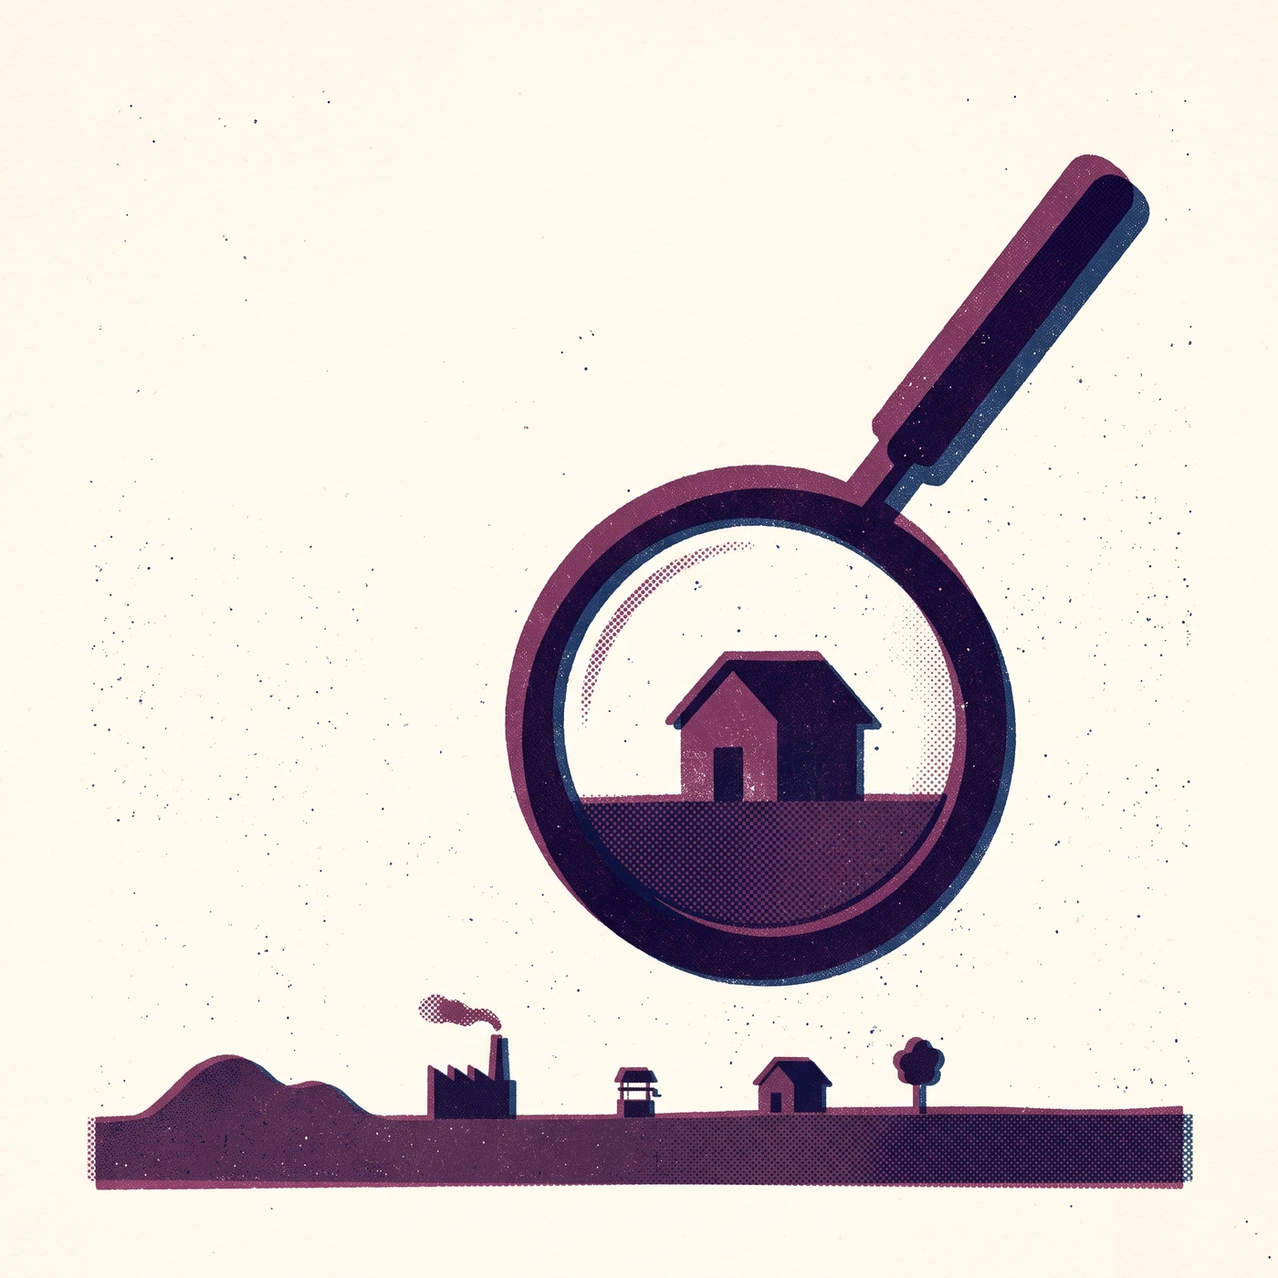
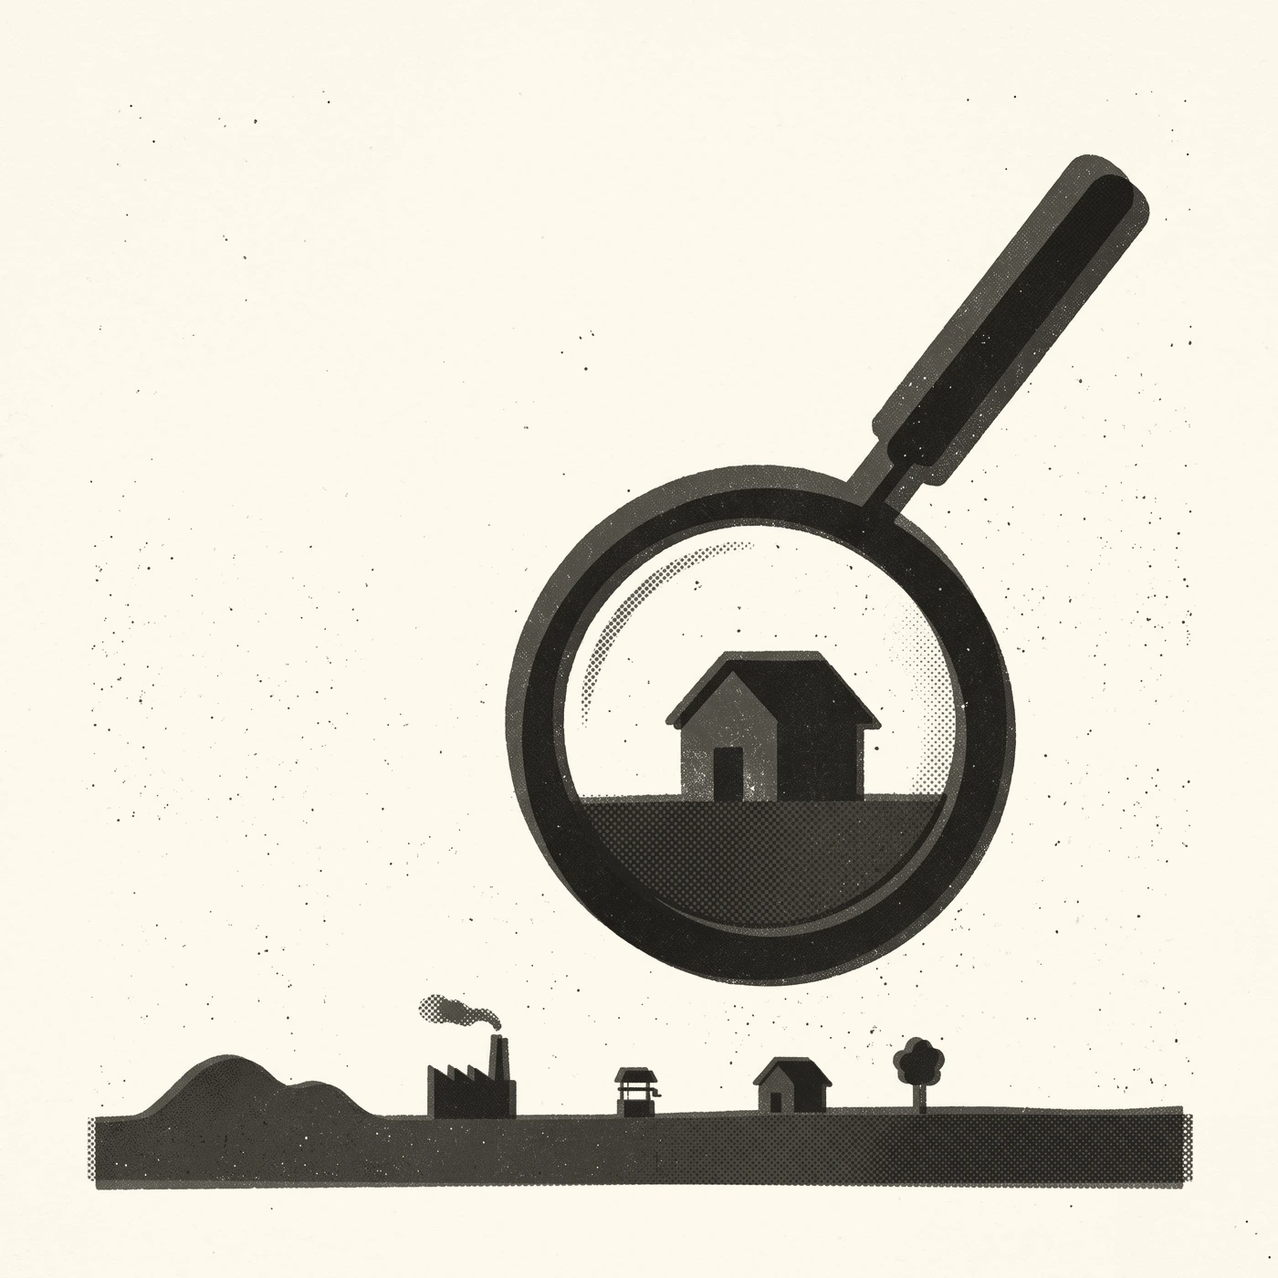
fix(landing): a plain FAQ, and the instruments shelf in its own ink
The FAQ misstated the site. It called Health "the next instrument"
(it is an index, and no order was ever set), named IndiaStat as a
source (nothing here uses it), and said nothing about what is live,
what runs on placeholder data, how current anything is, or what the
data may be reused for. It now answers those, each checkable against
the site, with links to the method, the instrument and the data page.

The shelf, its share card, its landing tile and the "Instruments"
label all wore plum, Instrument 01's colour, so the first instrument
read as the whole shelf. The shelf now prints in graphite; plum stays
with People & Consent, and each shelf row takes its instrument's own
colour. Both prints were re-inked by scripts/og/reink.py, not
redrawn. The card is renamed instruments-3.jpg and the tile
instruments-shelf.webp so caches fetch them again. The tile generator
is removed: it never produced the tile that is served.

Changed region(s): [[0.3686, 0.1229, 0.9214, 0.7986], [0.0614, 0.7679, 0.9521, 0.9521]]

diff --git a/app/page.tsx b/app/page.tsx
@@ -174,7 +174,7 @@ type Vert = {
   img: string;
   alt: string;
   active: boolean;
-  accent: "terra" | "cobalt" | "forest" | "ochre" | "plum";
+  accent: "terra" | "cobalt" | "forest" | "ochre" | "graphite";
   aria: string;
 };
 
@@ -233,10 +233,10 @@ const VERTS: Vert[] = [
     num: "05",
     title: "Instruments",
     meta: "Screening tools · Live",
-    img: "/landing/instruments-bg.webp",
+    img: "/landing/instruments-shelf.webp",
     alt: "Screening instruments for land, people and statutory consent in India",
     active: true,
-    accent: "plum",
+    accent: "graphite",
     aria: "Open the Instruments shelf — per-project screening tools",
   },
 ];
@@ -376,8 +376,8 @@ export default function Landing() {
           Layout language matches the hero: a 12-col grid, with each Q&A item
           laid out asymmetrically (number narrow / question wide / answer
           offset). Left edge of each item carries a 4-px accent bar cycling
-          through the four riso colours (terra, cobalt, forest, ochre) so the
-          brand palette persists below the hero. */}
+          through the five tile inks (terra, cobalt, forest, ochre, graphite)
+          so the brand palette persists below the hero. */}
       <section className={styles.faq} id="about" aria-labelledby="faq-heading">
         <header className={styles.faqHeader}>
           <div className={styles.faqEyebrow}>About the project</div>
@@ -395,7 +395,18 @@ export default function Landing() {
                   <span className={styles.faqQuestion}>{qa.q}</span>
                   <span className={styles.faqIndicator} aria-hidden="true">+</span>
                 </summary>
-                <p className={styles.faqAnswer}>{qa.a}</p>
+                <p className={styles.faqAnswer}>
+                  {qa.a}
+                  {qa.more ? (
+                    <>
+                      {" "}
+                      <Link href={qa.more.href} prefetch={false} className={styles.faqMore}>
+                        {qa.more.label}
+                        <span aria-hidden="true"> &#8599;</span>
+                      </Link>
+                    </>
+                  ) : null}
+                </p>
               </details>
             </li>
           ))}
@@ -418,26 +429,47 @@ export default function Landing() {
   );
 }
 
-const FAQS: { q: string; a: string }[] = [
+/* What a first-time visitor needs to decide whether to trust and use the site.
+   Every claim here is checkable against the site itself: what is live, what is
+   placeholder, where each number comes from and what it may be reused for.
+   The structured data below is built from this array, so the two cannot drift. */
+type Faq = { q: string; a: string; more?: { href: string; label: string } };
+
+const FAQS: Faq[] = [
   {
-    q: "What does Whitespace India actually do?",
-    a: "We build tools from India's public records. They come in two shapes. Indexes rank every district in the country on one question — the CSR Opportunity Index is live, with Health, Education, and Energy in development. Instruments work the other way round: you bring one case, and the instrument tells you what the public record says about it.",
+    q: "What is Whitespace India?",
+    a: "Free tools built on Indian government data. Two are live. The CSR Opportunity Index ranks 651 districts by how far corporate social responsibility (CSR) spending falls short of poverty there. People & Consent, the first instrument, takes one proposal from the national environmental clearance register and shows who lives where it would be built and which consent rules apply there. The site is built and maintained by Souhard Sharma. It is not a government site, and nothing on it is an official statistic.",
   },
   {
     q: "What is the difference between an index and an instrument?",
-    a: "An index is comparative. It scores 651 districts against each other and ranks them, so it answers where a problem is worst. An instrument is diagnostic. It takes a single project, place, or filing and assembles what the record holds about that one case — no score, no ranking, no weighting. The first instrument, People and Consent, takes an environmental clearance proposal and profiles the population where the project would be built.",
+    a: "An index compares. It scores every district on one question and ranks them, and you can change the weights behind the score. An instrument looks at one case: you pick a proposal and get its profile, with no score and no ranking. Use an index to decide where to look. Use an instrument when you already have a project in front of you.",
   },
   {
-    q: "Who are the instruments built for?",
-    a: "Grant officers planning a cycle, journalists tracing a story the official record hasn't yet told, researchers asking a district-level question that consulting decks don't answer, and policymakers who want evidence sitting under their next decision.",
+    q: "How does the CSR index rank a district?",
+    a: "It combines three measures. Poverty is the share of people who are multidimensionally poor, from NITI Aayog's 2023 index. The funding gap is how far the district's CSR spending per person falls below the median for districts of a similar population. Persistence is how much of the district's 2015-16 poverty was still there in 2019-21. By default poverty and the funding gap count for 40% each and persistence for 20%. You can change the weights and watch the ranking move. CSR spent \"Pan India\" or without a district, which is most of it, cannot be placed and is left out, so district totals are a floor.",
+    more: { href: "/methodology", label: "Read the method" },
+  },
+  {
+    q: "What does People & Consent show about a proposal?",
+    a: "Where the project is: the Census district and sub-district, read from the developer's own application form on PARIVESH, the environment ministry's portal, and checked against the site coordinates where the form gives them. Who lives there: population, the Scheduled Tribe and Scheduled Caste shares, literacy, how many workers depend on land, schools and health posts. Which consent rules apply: whether the place is a Fifth Schedule Scheduled Area, where PESA gives the Gram Sabha a say, and the forest, wildlife and coastal clearances the form declares. It also shows how long the proposal has been under appraisal. It does not say whether a project should go ahead.",
+    more: { href: "/instruments/consent", label: "Look up a proposal" },
+  },
+  {
+    q: "How current is it?",
+    a: "The clearance register is re-read every night, and every instrument page says when its copy was last checked. The CSR index is a fixed edition, and its method page lists the years of spending it uses. Population figures come from the 2011 Census, the latest India has published. They describe the people who lived there in 2011 and are labelled that way wherever they appear.",
   },
   {
     q: "Where does the data come from?",
-    a: "Everything we publish comes from India's public records, accessed primarily through aggregation platforms like IndiaStat and Dataful that consolidate the underlying ministry filings, statistical releases, and survey data for each domain.",
+    a: "Government records only. The CSR index uses NITI Aayog's Multidimensional Poverty Index, the Ministry of Corporate Affairs' CSR filings (through Dataful.in) and the 2011 Census. People & Consent reads the PARIVESH register, each proposal's application form and its appraisal history directly from the portal. It adds the 2011 Census and the 2011 Socio Economic and Caste Census (through the SHRUG research dataset), 2011 district boundaries from datameet, and the Presidential Orders that schedule Fifth Schedule Areas. Every figure in an instrument names its source and year.",
   },
   {
-    q: "What's next on the roadmap?",
-    a: "Health is the next instrument because its source data is in the cleanest shape today, followed by Education and then Energy. Each domain is treated independently, with its own composite index and its own methodology calibrated to the signals that matter inside that sector.",
+    q: "Can I reuse the data?",
+    a: "Yes. The data is CC BY 4.0: you can reuse it, commercially too, if you credit Whitespace India. One exception: the Census and SECC district and sub-district profiles in People & Consent come from SHRUG and keep its CC BY-NC-SA 4.0 licence, which does not allow commercial use. The code is open source under AGPL-3.0 on GitHub.",
+    more: { href: "/instruments/consent/data", label: "Every file and endpoint" },
+  },
+  {
+    q: "What about Health, Energy and Education?",
+    a: "Those pages show how each index will work, but they run on placeholder numbers, not real data. Do not quote them. They are kept out of search results. Each goes live only once it has real district data and a written method. There is no set order or date.",
   },
 ];
 

diff --git a/app/instruments/page.tsx b/app/instruments/page.tsx
@@ -4,6 +4,7 @@ import { pageLd } from "@/lib/instruments/metadata";
 import {
   InstrumentFooter,
   InstrumentHeader,
+  GRAPHITE,
   PLUM,
 } from "@/components/instruments/InstrumentChrome";
 import meta from "@/public/data/instruments/consent/meta.json";
@@ -26,6 +27,8 @@ type Shelf = {
   name: string;
   href: string | null;
   status: "live" | "in-development";
+  /** The instrument's own colour, used on its row and on its pages. */
+  colour: string;
   question: string;
   blurb: string;
   inputs: string;
@@ -38,6 +41,7 @@ const INSTRUMENTS: Shelf[] = [
     name: "People & Consent",
     href: "/instruments/consent",
     status: "live",
+    colour: PLUM,
     question:
       "Who lives where this project would be built, and whose agreement is legally required before it proceeds?",
     blurb:
@@ -67,7 +71,7 @@ export default function InstrumentsShelf() {
           <div className="max-w-6xl mx-auto">
             <div
               className="font-label text-[11px] uppercase tracking-[0.24em] mb-6"
-              style={{ color: PLUM }}
+              style={{ color: GRAPHITE }}
             >
               The shelf
             </div>
@@ -78,7 +82,7 @@ export default function InstrumentsShelf() {
             </h1>
             <div className="mt-10 grid grid-cols-1 md:grid-cols-12 gap-8">
               <p className="md:col-span-7 font-body text-[clamp(16px,1.5vw,19px)] leading-relaxed opacity-80">
-                The four indexes on this site are comparative. They score every
+                The indexes on this site are comparative. They score every
                 district in the country against one question and rank them, so
                 they answer <em>where</em> a problem is worst. Instruments work
                 the other way round. You bring a single project, filing, or
@@ -117,7 +121,7 @@ export default function InstrumentsShelf() {
                     <div className="md:col-span-1">
                       <span
                         className="inline-block font-label font-bold text-[11px] tracking-[0.2em] px-2 py-1"
-                        style={{ background: PLUM, color: "#fcf9f4" }}
+                        style={{ background: it.colour, color: "#fcf9f4" }}
                       >
                         {it.num}
                       </span>
@@ -130,7 +134,7 @@ export default function InstrumentsShelf() {
                         </h3>
                         <span
                           className="font-label text-[10px] uppercase tracking-[0.2em]"
-                          style={{ color: it.status === "live" ? PLUM : undefined }}
+                          style={{ color: it.status === "live" ? it.colour : undefined }}
                         >
                           {it.status === "live" ? "Live" : "In development"}
                         </span>
@@ -155,7 +159,7 @@ export default function InstrumentsShelf() {
                             </dt>
                             <dd
                               className="font-label font-bold text-[clamp(20px,2.4vw,30px)] leading-none mt-1 tabular-nums"
-                              style={{ color: PLUM }}
+                              style={{ color: it.colour }}
                             >
                               {s.value}
                             </dd>
@@ -176,7 +180,7 @@ export default function InstrumentsShelf() {
                   <li
                     key={it.num}
                     className="border-b border-[#1c1c19]/20 relative"
-                    style={{ boxShadow: `inset 4px 0 0 ${PLUM}` }}
+                    style={{ boxShadow: `inset 4px 0 0 ${it.colour}` }}
                   >
                     {it.href ? (
                       <Link

diff --git a/app/page.module.css b/app/page.module.css
@@ -18,12 +18,11 @@
   --cobalt: #2e54a5;
   --forest: #2a6f3e;
   --ochre: #b48a52;
-  /* Fifth riso accent. Chosen by measurement, not taste: the only large gap in
-     the existing hue circle is cobalt(221) -> terra(8), 147 degrees wide. This
-     sits in it at hue 314, deltaE 37 from its nearest neighbour (cobalt) and
-     55+ from the rest, with L* 34.7 landing inside the existing 35/37/41
-     cluster and 6.76 contrast on ivory against terra's 6.65. */
-  --plum: #7a3b6b;
+  /* Tile 05 is the instruments SHELF, not an instrument, so it takes no
+     colour an instrument could own. Plum belongs to Instrument 01 (its pages
+     and share card); the shelf prints in graphite, the riso black drum, and
+     each instrument on it keeps its own ink. */
+  --graphite: #3d3a34;
 
   --spring: cubic-bezier(0.34, 1.56, 0.64, 1);
   --smooth: cubic-bezier(0.22, 1, 0.36, 1);
@@ -555,11 +554,11 @@
 .accent_cobalt   { box-shadow: inset 5px 0 0 var(--cobalt), 0 8px 20px -14px rgba(40, 25, 15, 0.4); }
 .accent_forest   { box-shadow: inset 5px 0 0 var(--forest), 0 8px 20px -14px rgba(40, 25, 15, 0.4); }
 .accent_ochre    { box-shadow: inset 5px 0 0 var(--ochre),  0 8px 20px -14px rgba(40, 25, 15, 0.4); }
-.accent_plum     { box-shadow: inset 5px 0 0 var(--plum),   0 8px 20px -14px rgba(40, 25, 15, 0.4); }
+.accent_graphite { box-shadow: inset 5px 0 0 var(--graphite), 0 8px 20px -14px rgba(40, 25, 15, 0.4); }
 .accent_cobalt:hover { box-shadow: inset 5px 0 0 var(--cobalt), 0 18px 40px -18px rgba(40, 25, 15, 0.55); }
 .accent_forest:hover { box-shadow: inset 5px 0 0 var(--forest), 0 18px 40px -18px rgba(40, 25, 15, 0.55); }
 .accent_ochre:hover  { box-shadow: inset 5px 0 0 var(--ochre),  0 18px 40px -18px rgba(40, 25, 15, 0.55); }
-.accent_plum:hover   { box-shadow: inset 5px 0 0 var(--plum),   0 18px 40px -18px rgba(40, 25, 15, 0.55); }
+.accent_graphite:hover { box-shadow: inset 5px 0 0 var(--graphite), 0 18px 40px -18px rgba(40, 25, 15, 0.55); }
 
 /* ───────────────────────── FOOTER STRIP ───────────────────────── */
 .footStrip {
@@ -757,7 +756,7 @@
 .faqItem[data-accent="1"] { --accent: var(--cobalt); }
 .faqItem[data-accent="2"] { --accent: var(--forest); }
 .faqItem[data-accent="3"] { --accent: var(--ochre); }
-.faqItem[data-accent="4"] { --accent: var(--plum); }
+.faqItem[data-accent="4"] { --accent: var(--graphite); }
 
 .faqDetails {
   display: block;
@@ -836,6 +835,17 @@
   margin: 0 0 clamp(28px, 4vh, 44px) 0;
   padding-left: calc(var(--col-num) + var(--col-gap));
   padding-right: calc(var(--col-ind) + var(--col-gap));
+}
+
+/* Ink text, accent underline: ochre text is about 3:1 on ivory, too faint to read. */
+.faqMore {
+  color: var(--ink);
+  font-weight: 600;
+  text-decoration: underline;
+  text-decoration-color: var(--accent, var(--terra));
+  text-decoration-thickness: 2px;
+  text-underline-offset: 3px;
+  white-space: nowrap;
 }
 
 /* FOOTER */

diff --git a/app/instruments/layout.tsx b/app/instruments/layout.tsx
@@ -35,10 +35,10 @@ export const metadata: Metadata = {
     locale: "en_IN",
     images: [
       {
-        url: "/og/instruments-2.jpg",
+        url: "/og/instruments-3.jpg",
         width: 1200,
         height: 630,
-        alt: "Whitespace India Instruments: \u201cBring one case, see what the record holds\u201d, beside a risograph print of a magnifying glass over a row of everyday objects",
+        alt: "Whitespace India Instruments: \u201cBring one case, see what the record holds\u201d, beside a graphite risograph print of a magnifying glass over a row of everyday objects",
       },
     ],
   },
@@ -46,7 +46,7 @@ export const metadata: Metadata = {
     card: "summary_large_image",
     title: "Whitespace India — Instruments",
     description: DESCRIPTION,
-    images: [{ url: "/og/instruments-2.jpg", alt: "Whitespace India Instruments: \u201cBring one case, see what the record holds\u201d, beside a risograph print of a magnifying glass over a row of everyday objects" }],
+    images: [{ url: "/og/instruments-3.jpg", alt: "Whitespace India Instruments: \u201cBring one case, see what the record holds\u201d, beside a graphite risograph print of a magnifying glass over a row of everyday objects" }],
   },
   alternates: { canonical: PAGE_URL },
   robots: {

diff --git a/components/instruments/InstrumentChrome.tsx b/components/instruments/InstrumentChrome.tsx
@@ -19,8 +19,12 @@ import { usePathname } from "next/navigation";
 import Image from "next/image";
 import RegisterCurrency from "@/components/instruments/RegisterCurrency";
 
+// Instrument 01's colour. The shelf is not an instrument and must not wear
+// one's colour, or the first instrument reads as the whole shelf: the shelf
+// and the "Instruments" label take GRAPHITE, which no instrument will own.
 export const PLUM = "#7a3b6b";
 export const PLUM_DEEP = "#5f2c53";
+export const GRAPHITE = "#3d3a34";
 
 export function InstrumentHeader({
   crumb,
@@ -56,7 +60,7 @@ export function InstrumentHeader({
           <Link
             href="/instruments"
             className="font-headline italic font-bold text-[16px] sm:text-[17px] md:text-[20px] leading-none tracking-[-0.01em] shrink-0"
-            style={{ color: PLUM }}
+            style={{ color: GRAPHITE }}
           >
             Instruments
           </Link>

diff --git a/lib/__tests__/share-cards.test.ts b/lib/__tests__/share-cards.test.ts
@@ -37,7 +37,7 @@ test("each section previews with its own card", () => {
   const expected: Record<string, string> = {
     "app/layout.tsx": "/og/whitespace-india-2.jpg",
     "app/csr/layout.tsx": "/og/csr-index-2.jpg",
-    "app/instruments/layout.tsx": "/og/instruments-2.jpg",
+    "app/instruments/layout.tsx": "/og/instruments-3.jpg",
     "lib/instruments/metadata.ts": "/og/consent-2.jpg",
     "app/health/layout.tsx": "/og/health-2.jpg",
     "app/energy/layout.tsx": "/og/energy-2.jpg",

diff --git a/scripts/og/reink.py b/scripts/og/reink.py
@@ -1,0 +1,52 @@
+"""Re-ink a one-colour riso print: the paper stays, the ink becomes another ink.
+
+The instruments shelf took its art from Instrument 01's plum, so the shelf and
+its first instrument read as one thing. The shelf is now graphite, and its two
+prints (the landing tile and the share card's magnifying glass) were re-inked
+with this script rather than redrawn, so the drawings are unchanged.
+
+Ink coverage is read from luminance, which keeps the grain, the halftone and
+the misregistration. Luminance runs paper -> MID -> DEEP. MID sits at the
+luminance plum had, so the drawing keeps its weight; only pixels darker than
+plum (the second, deeper ink some prints carry) move toward DEEP.
+
+usage: python scripts/og/reink.py <in> <out> <mid r,g,b> <deep r,g,b>
+  shelf: python scripts/og/reink.py public/landing/_orig_backup/instruments-bg.webp \
+             public/landing/_orig_backup/instruments-shelf.webp 84,80,72 30,28,25
+         then python scripts/optimize_landing.py instruments-shelf
+"""
+import sys
+
+import numpy as np
+from PIL import Image
+
+LUMA = np.array([0.299, 0.587, 0.114])
+OLD_INK = np.array([122, 59, 107])  # plum, #7a3b6b
+
+
+def parse_rgb(text: str) -> np.ndarray:
+    return np.array([int(v) for v in text.split(",")], float)
+
+
+def reink(src: str, dst: str, mid: np.ndarray, deep: np.ndarray) -> None:
+    pixels = np.asarray(Image.open(src).convert("RGB")).astype(float)
+    flat = pixels.reshape(-1, 3)
+    lum = flat @ LUMA
+    # The brighter 40% of a print is bare paper, grain included.
+    paper = np.median(flat[lum >= np.percentile(lum, 60)], axis=0)
+    l_paper, l_dark = paper @ LUMA, np.percentile(lum, 0.2)
+    t = np.clip((l_paper - lum) / (l_paper - l_dark), 0, 1)
+    t_mid = (l_paper - OLD_INK @ LUMA) / (l_paper - l_dark)
+    to_mid = np.clip(t / t_mid, 0, 1)[:, None]
+    to_deep = np.clip((t - t_mid) / (1 - t_mid), 0, 1)[:, None]
+    out = np.where(t[:, None] <= t_mid,
+                   paper + to_mid * (mid - paper),
+                   mid + to_deep * (deep - mid))
+    Image.fromarray(np.clip(out, 0, 255).astype(np.uint8).reshape(pixels.shape)).save(dst, quality=92)
+    print(f"wrote {dst}  paper {paper.round()}")
+
+
+if __name__ == "__main__":
+    if len(sys.argv) != 5:
+        sys.exit(__doc__)
+    reink(sys.argv[1], sys.argv[2], parse_rgb(sys.argv[3]), parse_rgb(sys.argv[4]))

diff --git a/scripts/make_og.py b/scripts/make_og.py
@@ -81,6 +81,8 @@ class Card:
 
 
 CLAY = (189, 64, 44)
+PLUM = (122, 59, 107)  # Instrument 01 only
+GRAPHITE = (61, 58, 52)  # the shelf: its own ink, so no instrument owns it
 CARDS = [
     Card("whitespace-india-2.jpg", "brand.webp", (-110, -110, 1510, 1510), CLAY,
          "OPEN CIVIC DATA · INDIA",
@@ -90,11 +92,11 @@ CARDS = [
          "CSR OPPORTUNITY INDEX",
          "Where CSR\nshould go,", "district by\ndistrict.",
          "651 districts · Government data"),
-    Card("instruments-2.jpg", "instruments.webp", (0, 0, 1400, 1400), (122, 59, 107),
+    Card("instruments-3.jpg", "instruments.webp", (0, 0, 1400, 1400), GRAPHITE,
          "INSTRUMENTS",
          "Bring one case,", "see what the\nrecord holds.",
          "Built from India’s public records"),
-    Card("consent-2.jpg", "consent.webp", (100, 87, 1300, 1287), (122, 59, 107),
+    Card("consent-2.jpg", "consent.webp", (100, 87, 1300, 1287), PLUM,
          "PEOPLE & CONSENT",
          "Who lives where\nit would be built,", "and which consent\nrules apply.",
          "Instrument 01 · Clearance filings"),

diff --git a/scripts/optimize_landing.py b/scripts/optimize_landing.py
@@ -19,7 +19,7 @@ from PIL import Image
 
 SRC_DIR = Path("public/landing/_orig_backup")
 OUT_DIR = Path("public/landing")
-TARGETS = ["csr-hands", "education-bg", "energy-bg", "health-bg", "instruments-bg"]
+TARGETS = ["csr-hands", "education-bg", "energy-bg", "health-bg", "instruments-shelf"]
 LONG_EDGE = 1600
 ASPECT = (3, 2)  # landscape poster tile
 QUALITY = 80
@@ -62,7 +62,7 @@ def main() -> None:
     # blanket run silently recrops them and changes the landing page. Pass the
     # names you actually want to rebuild.
     #   python scripts/optimize_landing.py                  # all TARGETS
-    #   python scripts/optimize_landing.py instruments-bg   # just this one
+    #   python scripts/optimize_landing.py instruments-shelf  # just this one
     selected = sys.argv[1:] or TARGETS
     unknown = [n for n in selected if n not in TARGETS]
     if unknown:
